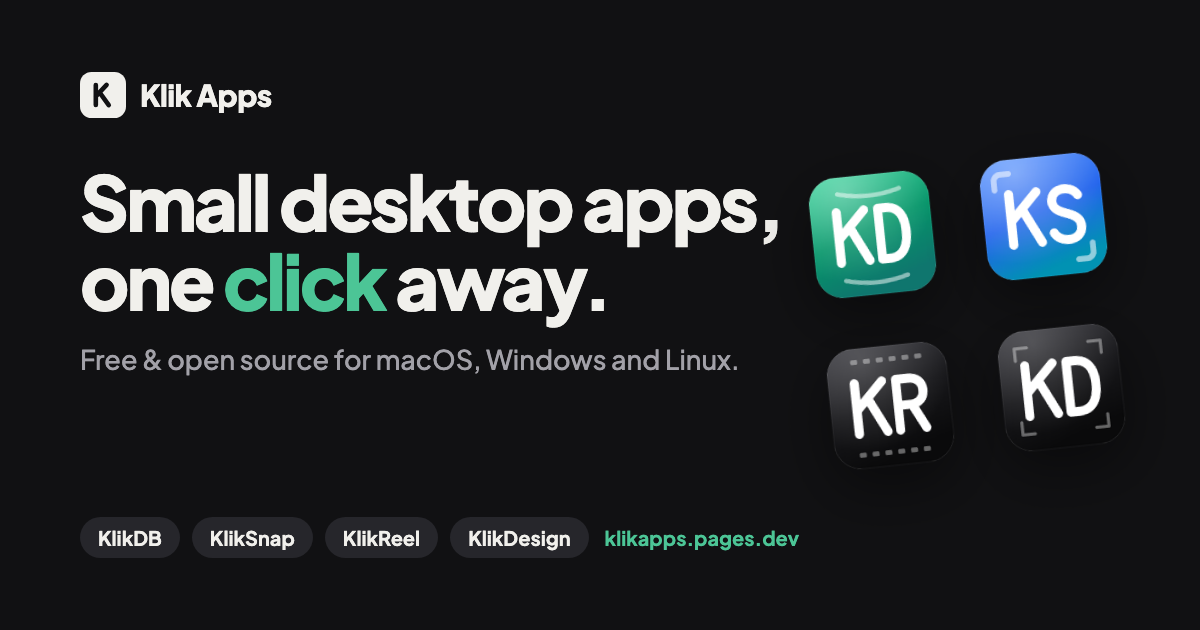
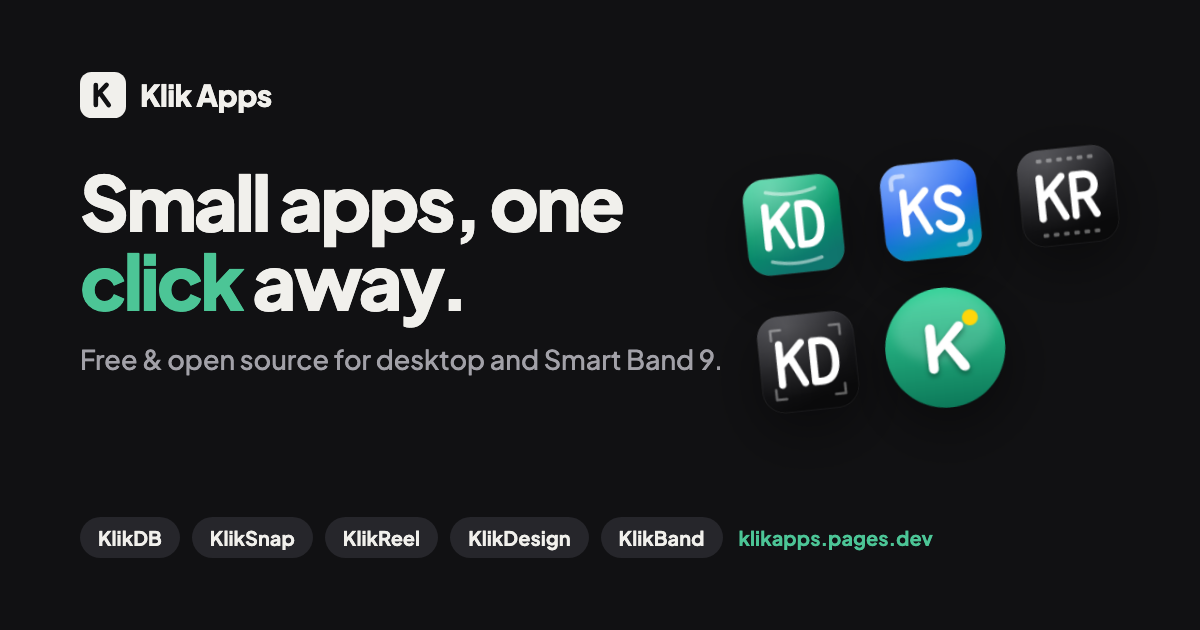
Add KlikBand for Xiaomi Smart Band 9
- New app card that links straight to the latest .rpk release
- Hero, meta, structured data and OG image now cover the band app
- Sitemap lastmod updated

Changed region(s): [[0.0617, 0.2111, 0.925, 0.7238], [0.4933, 0.8444, 0.7708, 0.8746]]

diff --git a/public/index.html b/public/index.html
@@ -4,7 +4,7 @@
 <meta charset="utf-8">
 <meta name="viewport" content="width=device-width, initial-scale=1">
 <title>Klik Apps: free, open-source desktop apps for Mac, Windows and Linux</title>
-<meta name="description" content="Free, open-source desktop apps for macOS, Windows and Linux: KlikDB database manager, KlikSnap screenshots, KlikReel promo videos and KlikDesign posters.">
+<meta name="description" content="Free, open-source apps: KlikDB database manager, KlikSnap screenshots, KlikReel promo videos and KlikDesign posters for macOS, Windows and Linux, plus KlikBand for Xiaomi Smart Band 9.">
 <link rel="canonical" href="https://klikapps.pages.dev/">
 <meta name="author" content="Adam Suchi Hafizullah">
 <meta name="theme-color" content="#f6f5f1" media="(prefers-color-scheme: light)">
@@ -13,17 +13,17 @@
 <meta property="og:site_name" content="Klik Apps">
 <meta property="og:url" content="https://klikapps.pages.dev/">
 <meta property="og:title" content="Klik Apps: small desktop apps, one click away">
-<meta property="og:description" content="Free, open-source desktop apps for macOS, Windows and Linux: KlikDB, KlikSnap, KlikReel and KlikDesign.">
+<meta property="og:description" content="Free, open-source apps: KlikDB, KlikSnap, KlikReel and KlikDesign for desktop, plus KlikBand for Xiaomi Smart Band 9.">
 <meta property="og:image" content="https://klikapps.pages.dev/og.png">
 <meta property="og:image:width" content="1200">
 <meta property="og:image:height" content="630">
-<meta property="og:image:alt" content="Klik Apps: small desktop apps, one click away. KlikDB, KlikSnap, KlikReel and KlikDesign.">
+<meta property="og:image:alt" content="Klik Apps: small apps, one click away. KlikDB, KlikSnap, KlikReel, KlikDesign and KlikBand.">
 <meta property="og:locale" content="en_US">
 <meta name="twitter:card" content="summary_large_image">
 <meta name="twitter:title" content="Klik Apps: small desktop apps, one click away">
 <meta name="twitter:description" content="Free, open-source desktop apps for macOS, Windows and Linux.">
 <meta name="twitter:image" content="https://klikapps.pages.dev/og.png">
-<script type="application/ld+json">{"@context": "https://schema.org", "@graph": [{"@type": "WebSite", "@id": "https://klikapps.pages.dev/#website", "url": "https://klikapps.pages.dev/", "name": "Klik Apps", "description": "Free, open-source desktop apps for macOS, Windows and Linux: KlikDB database manager, KlikSnap screenshots, KlikReel promo videos and KlikDesign posters.", "inLanguage": "en", "publisher": {"@id": "https://klikapps.pages.dev/#author"}}, {"@type": "Person", "@id": "https://klikapps.pages.dev/#author", "name": "Adam Suchi Hafizullah", "url": "https://ashafizullah.com", "sameAs": ["https://github.com/ashafizullah"]}, {"@type": "ItemList", "name": "Klik Apps", "itemListElement": [{"@type": "ListItem", "position": 1, "item": {"@type": "SoftwareApplication", "name": "KlikDB", "description": "A native database manager. PostgreSQL, MySQL, SQL Server, SQLite, Redis and MongoDB in one small app.", "applicationCategory": "DeveloperApplication", "operatingSystem": "macOS, Windows", "url": "https://github.com/ashafizullah/klikdb", "downloadUrl": "https://github.com/ashafizullah/klikdb/releases/latest", "image": "https://klikapps.pages.dev/icons/klikdb.png", "license": "https://opensource.org/licenses/MIT", "offers": {"@type": "Offer", "price": "0", "priceCurrency": "USD"}, "author": {"@id": "https://klikapps.pages.dev/#author"}}}, {"@type": "ListItem", "position": 2, "item": {"@type": "SoftwareApplication", "name": "KlikSnap", "description": "A lightweight screenshot and screen recording tool. Capture, annotate, OCR.", "applicationCategory": "MultimediaApplication", "operatingSystem": "macOS, Windows, Linux", "url": "https://github.com/ashafizullah/kliksnap", "downloadUrl": "https://github.com/ashafizullah/kliksnap/releases/latest", "image": "https://klikapps.pages.dev/icons/kliksnap.png", "license": "https://opensource.org/licenses/MIT", "offers": {"@type": "Offer", "price": "0", "priceCurrency": "USD"}, "author": {"@id": "https://klikapps.pages.dev/#author"}}}, {"@type": "ListItem", "position": 3, "item": {"@type": "SoftwareApplication", "name": "KlikReel", "description": "Turn a prompt and your codebase into a narrated product promo video.", "applicationCategory": "MultimediaApplication", "operatingSystem": "macOS, Windows, Linux", "url": "https://github.com/ashafizullah/klikreel", "downloadUrl": "https://github.com/ashafizullah/klikreel/releases/latest", "image": "https://klikapps.pages.dev/icons/klikreel.png", "license": "https://opensource.org/licenses/MIT", "offers": {"@type": "Offer", "price": "0", "priceCurrency": "USD"}, "author": {"@id": "https://klikapps.pages.dev/#author"}}}, {"@type": "ListItem", "position": 4, "item": {"@type": "SoftwareApplication", "name": "KlikDesign", "description": "A Canva-style poster editor with AI. Prompt a poster, then refine it on the canvas or by chat.", "applicationCategory": "DesignApplication", "operatingSystem": "macOS, Windows, Linux", "url": "https://github.com/ashafizullah/klikdesign", "downloadUrl": "https://github.com/ashafizullah/klikdesign/releases/latest", "image": "https://klikapps.pages.dev/icons/klikdesign.png", "license": "https://opensource.org/licenses/MIT", "offers": {"@type": "Offer", "price": "0", "priceCurrency": "USD"}, "author": {"@id": "https://klikapps.pages.dev/#author"}}}]}]}</script>
+<script type="application/ld+json">{"@context": "https://schema.org", "@graph": [{"@type": "WebSite", "@id": "https://klikapps.pages.dev/#website", "url": "https://klikapps.pages.dev/", "name": "Klik Apps", "description": "Free, open-source apps: KlikDB database manager, KlikSnap screenshots, KlikReel promo videos and KlikDesign posters for macOS, Windows and Linux, plus KlikBand for Xiaomi Smart Band 9.", "inLanguage": "en", "publisher": {"@id": "https://klikapps.pages.dev/#author"}}, {"@type": "Person", "@id": "https://klikapps.pages.dev/#author", "name": "Adam Suchi Hafizullah", "url": "https://ashafizullah.com", "sameAs": ["https://github.com/ashafizullah"]}, {"@type": "ItemList", "name": "Klik Apps", "itemListElement": [{"@type": "ListItem", "position": 1, "item": {"@type": "SoftwareApplication", "name": "KlikDB", "description": "A native database manager. PostgreSQL, MySQL, SQL Server, SQLite, Redis and MongoDB in one small app.", "applicationCategory": "DeveloperApplication", "operatingSystem": "macOS, Windows", "url": "https://github.com/ashafizullah/klikdb", "downloadUrl": "https://github.com/ashafizullah/klikdb/releases/latest", "image": "https://klikapps.pages.dev/icons/klikdb.png", "license": "https://opensource.org/licenses/MIT", "offers": {"@type": "Offer", "price": "0", "priceCurrency": "USD"}, "author": {"@id": "https://klikapps.pages.dev/#author"}}}, {"@type": "ListItem", "position": 2, "item": {"@type": "SoftwareApplication", "name": "KlikSnap", "description": "A lightweight screenshot and screen recording tool. Capture, annotate, OCR.", "applicationCategory": "MultimediaApplication", "operatingSystem": "macOS, Windows, Linux", "url": "https://github.com/ashafizullah/kliksnap", "downloadUrl": "https://github.com/ashafizullah/kliksnap/releases/latest", "image": "https://klikapps.pages.dev/icons/kliksnap.png", "license": "https://opensource.org/licenses/MIT", "offers": {"@type": "Offer", "price": "0", "priceCurrency": "USD"}, "author": {"@id": "https://klikapps.pages.dev/#author"}}}, {"@type": "ListItem", "position": 3, "item": {"@type": "SoftwareApplication", "name": "KlikReel", "description": "Turn a prompt and your codebase into a narrated product promo video.", "applicationCategory": "MultimediaApplication", "operatingSystem": "macOS, Windows, Linux", "url": "https://github.com/ashafizullah/klikreel", "downloadUrl": "https://github.com/ashafizullah/klikreel/releases/latest", "image": "https://klikapps.pages.dev/icons/klikreel.png", "license": "https://opensource.org/licenses/MIT", "offers": {"@type": "Offer", "price": "0", "priceCurrency": "USD"}, "author": {"@id": "https://klikapps.pages.dev/#author"}}}, {"@type": "ListItem", "position": 4, "item": {"@type": "SoftwareApplication", "name": "KlikDesign", "description": "A Canva-style poster editor with AI. Prompt a poster, then refine it on the canvas or by chat.", "applicationCategory": "DesignApplication", "operatingSystem": "macOS, Windows, Linux", "url": "https://github.com/ashafizullah/klikdesign", "downloadUrl": "https://github.com/ashafizullah/klikdesign/releases/latest", "image": "https://klikapps.pages.dev/icons/klikdesign.png", "license": "https://opensource.org/licenses/MIT", "offers": {"@type": "Offer", "price": "0", "priceCurrency": "USD"}, "author": {"@id": "https://klikapps.pages.dev/#author"}}}, {"@type": "ListItem", "position": 5, "item": {"@type": "SoftwareApplication", "name": "KlikBand", "description": "A quick app for Xiaomi Smart Band 9: prayer times, guided dhikr, tasbih, Hijri date, Islamic holidays and a day counter, fully offline.", "applicationCategory": "LifestyleApplication", "operatingSystem": "Xiaomi Vela (Xiaomi Smart Band 9)", "url": "https://github.com/ashafizullah/klikband", "downloadUrl": "https://github.com/ashafizullah/klikband/releases/latest", "image": "https://klikapps.pages.dev/icons/klikband.png", "license": "https://opensource.org/licenses/MIT", "offers": {"@type": "Offer", "price": "0", "priceCurrency": "USD"}, "author": {"@id": "https://klikapps.pages.dev/#author"}}}]}]}</script>
 <link rel="icon" href="favicon.svg" type="image/svg+xml">
 <link rel="icon" href="favicon-32.png" sizes="32x32" type="image/png">
 <link rel="apple-touch-icon" href="apple-touch-icon.png">
@@ -141,10 +141,10 @@
   </header>
 
   <section class="hero">
-    <h1>Small desktop apps, one <span class="click">click</span> away.</h1>
-    <p>Free and open-source tools for developers and makers. Native, light, and your data stays on your machine.</p>
+    <h1>Small apps, one <span class="click">click</span> away.</h1>
+    <p>Free and open-source tools for your desktop and your wrist. Native, light, and your data stays on your device.</p>
     <div class="facts">
-      <span>Free forever</span><span>Open source (MIT)</span><span>macOS · Windows · Linux</span><span>Auto-updates</span>
+      <span>Free forever</span><span>Open source (MIT)</span><span>macOS · Windows · Linux</span><span>Xiaomi Smart Band 9</span><span>Auto-updates</span>
     </div>
   </section>
 
@@ -201,6 +201,19 @@
         <div class="platforms" data-links>macOS · Windows · Linux</div>
       </div>
     </article>
+    <article class="app" id="klikband" style="--dot: #1fa77a" data-repo="klikband" data-platforms="band" data-direct>
+      <div class="app-head">
+        <img src="icons/klikband.png" alt="KlikBand icon" width="64" height="64" loading="lazy">
+        <div><h2>KlikBand</h2><span class="version" data-version></span></div>
+      </div>
+      <p class="tagline">A quick app for Xiaomi Smart Band 9. Prayer times, guided dhikr and everyday tools on your wrist, fully offline.</p>
+      <ul><li>Prayer times for 46 Indonesian cities, Hijri date and Islamic holidays</li><li>Guided post-prayer and morning &amp; evening dhikr, tasbih</li><li>Day counter, in English, Indonesian and Chinese</li></ul>
+      <div class="actions">
+        <a class="btn primary" data-download href="https://github.com/ashafizullah/klikband/releases/latest">Download KlikBand</a>
+        <a class="btn" href="https://github.com/ashafizullah/klikband" rel="noopener"><svg viewBox="0 0 24 24" fill="currentColor" aria-hidden="true"><path d="M12 2a10 10 0 0 0-3.2 19.5c.5.1.7-.2.7-.5v-1.7c-2.8.6-3.4-1.3-3.4-1.3-.4-1.2-1.1-1.5-1.1-1.5-.9-.6.1-.6.1-.6 1 .1 1.5 1 1.5 1 .9 1.5 2.3 1.1 2.9.8.1-.6.4-1.1.6-1.3-2.2-.3-4.6-1.1-4.6-5 0-1.1.4-2 1-2.7-.1-.3-.4-1.3.1-2.7 0 0 .8-.3 2.8 1a9.6 9.6 0 0 1 5 0c1.9-1.3 2.8-1 2.8-1 .5 1.4.2 2.4.1 2.7.6.7 1 1.6 1 2.7 0 3.9-2.3 4.7-4.6 5 .4.3.7.9.7 1.9v2.8c0 .3.2.6.7.5A10 10 0 0 0 12 2z"/></svg> Source</a>
+        <div class="platforms" data-links>Xiaomi Smart Band 9 · installs via <a href="https://github.com/ashafizullah/klikband#install-on-the-band" rel="noopener">Gadgetbridge</a> on Android</div>
+      </div>
+    </article>
   </main>
 
   <section class="about">
@@ -229,9 +242,9 @@
     win: '<svg viewBox="0 0 24 24" fill="currentColor" aria-hidden="true"><path d="M3 5.1 10.4 4v7.1H3zM11.3 3.9 21 2.5v8.6h-9.7zM3 12h7.4v7.1L3 18zM11.3 12H21v8.6l-9.7-1.4z"/></svg>',
     linux: '<svg viewBox="0 0 24 24" fill="currentColor" aria-hidden="true"><path d="M12 2c-2.2 0-3.6 1.9-3.6 4.6 0 1.4.3 2.2-.6 3.6-1.2 1.8-2.9 4-2.9 6.4 0 .8.2 1.5.5 2.1-.8.4-1.9.7-1.9 1.6 0 1.2 2.6 1.2 4.2 1.7.9.3 1.6.8 2.4.8.8 0 1.3-.5 1.9-.6h1c.6.1 1.1.6 1.9.6.8 0 1.5-.5 2.4-.8 1.6-.5 4.2-.5 4.2-1.7 0-.9-1.1-1.2-1.9-1.6.3-.6.5-1.3.5-2.1 0-2.4-1.7-4.6-2.9-6.4-.9-1.4-.6-2.2-.6-3.6C15.6 3.9 14.2 2 12 2z"/></svg>',
   };
-  const LABEL = { mac: "macOS", win: "Windows", linux: "Linux" };
+  const LABEL = { mac: "macOS", win: "Windows", linux: "Linux", band: "Smart Band 9" };
   // Which release asset to offer for each platform.
-  const ASSET = { mac: /_universal\.dmg$/, win: /_x64-setup\.exe$/, linux: /_amd64\.AppImage$/ };
+  const ASSET = { mac: /_universal\.dmg$/, win: /_x64-setup\.exe$/, linux: /_amd64\.AppImage$/, band: /\.rpk$/ };
 
   const ua = navigator.userAgent;
   const os = /Mac/.test(ua) && !/iPhone|iPad/.test(ua) ? "mac" : /Windows/.test(ua) ? "win" : /Linux/.test(ua) && !/Android/.test(ua) ? "linux" : null;
@@ -253,9 +266,10 @@
       const links = platforms
         .map(p => [p, rel.assets.find(a => ASSET[p].test(a.name))])
         .filter(([, a]) => a);
-      const mine = links.find(([p]) => p === os);
+      // data-direct: not tied to the visitor's OS (e.g. a band app), so link its only file
+      const mine = links.find(([p]) => p === os) || ("direct" in el.dataset ? links[0] : null);
       if (mine) el.querySelector("[data-download]").href = mine[1].browser_download_url;
-      const others = links.filter(([p]) => p !== os);
+      const others = links.filter(([p]) => !mine || p !== mine[0]);
       if (others.length) {
         el.querySelector("[data-links]").innerHTML =
           (mine ? "Also for " : "") +

diff --git a/og/og.html b/og/og.html
@@ -6,22 +6,22 @@
   body { width: 1200px; height: 630px; background: #111113; color: #f1f0ec; font-family: "Plus Jakarta Sans", sans-serif; padding: 72px 80px; display: flex; flex-direction: column; overflow: hidden; position: relative; }
   .brand { display: flex; align-items: center; gap: 14px; font-weight: 800; font-size: 30px; letter-spacing: -.02em; }
   .brand svg { width: 46px; height: 46px; }
-  h1 { font-size: 76px; line-height: 1.04; letter-spacing: -.04em; font-weight: 800; margin-top: 44px; max-width: 780px; }
+  h1 { font-size: 76px; line-height: 1.04; letter-spacing: -.04em; font-weight: 800; margin-top: 44px; max-width: 640px; }
   h1 span { color: #4cc596; }
   p { margin-top: 22px; font-size: 27px; color: #a2a1a8; font-weight: 500; }
-  .icons { position: absolute; right: 72px; top: 150px; display: grid; grid-template-columns: repeat(2, 150px); gap: 22px; transform: rotate(-6deg); }
-  .icons img { width: 150px; height: 150px; filter: drop-shadow(0 18px 30px rgba(0,0,0,.45)); }
+  .icons { position: absolute; right: 64px; top: 150px; display: grid; grid-template-columns: repeat(3, 120px); gap: 18px; transform: rotate(-6deg); }
+  .icons img { width: 120px; height: 120px; filter: drop-shadow(0 18px 30px rgba(0,0,0,.45)); }
   .foot { margin-top: auto; display: flex; gap: 12px; font-size: 20px; font-weight: 700; }
   .foot span { background: #26262b; border-radius: 999px; padding: 8px 18px; }
   .foot .url { background: none; color: #4cc596; padding-left: 4px; }
 </style></head>
 <body>
   <div class="brand"><svg viewBox="0 0 32 32"><rect width="32" height="32" rx="8" fill="#f1f0ec"/><path d="M11 9v14M11 17l7.5-8M13.6 14.2 20 23" stroke="#111113" stroke-width="3.2" stroke-linecap="round" stroke-linejoin="round" fill="none"/></svg>Klik Apps</div>
-  <h1>Small desktop apps, one <span>click</span> away.</h1>
-  <p>Free &amp; open source for macOS, Windows and Linux.</p>
+  <h1>Small apps, one <span>click</span> away.</h1>
+  <p>Free &amp; open source for desktop and Smart Band 9.</p>
   <div class="icons">
     <img src="../public/icons/klikdb.png"><img src="../public/icons/kliksnap.png">
-    <img src="../public/icons/klikreel.png"><img src="../public/icons/klikdesign.png">
+    <img src="../public/icons/klikreel.png"><img src="../public/icons/klikdesign.png"><img src="../public/icons/klikband.png">
   </div>
-  <div class="foot"><span>KlikDB</span><span>KlikSnap</span><span>KlikReel</span><span>KlikDesign</span><span class="url">klikapps.pages.dev</span></div>
+  <div class="foot"><span>KlikDB</span><span>KlikSnap</span><span>KlikReel</span><span>KlikDesign</span><span>KlikBand</span><span class="url">klikapps.pages.dev</span></div>
 </body></html>

diff --git a/README.md b/README.md
@@ -1,6 +1,6 @@
 # Klik Apps
 
-Landing page for Adam's free, open-source desktop apps: [KlikDB](https://github.com/ashafizullah/klikdb), [KlikSnap](https://github.com/ashafizullah/kliksnap), [KlikReel](https://github.com/ashafizullah/klikreel) and [KlikDesign](https://github.com/ashafizullah/klikdesign).
+Landing page for Adam's free, open-source apps: [KlikDB](https://github.com/ashafizullah/klikdb), [KlikSnap](https://github.com/ashafizullah/kliksnap), [KlikReel](https://github.com/ashafizullah/klikreel), [KlikDesign](https://github.com/ashafizullah/klikdesign), and [KlikBand](https://github.com/ashafizullah/klikband) for Xiaomi Smart Band 9.
 
 Live at **https://klikapps.pages.dev**.
 
